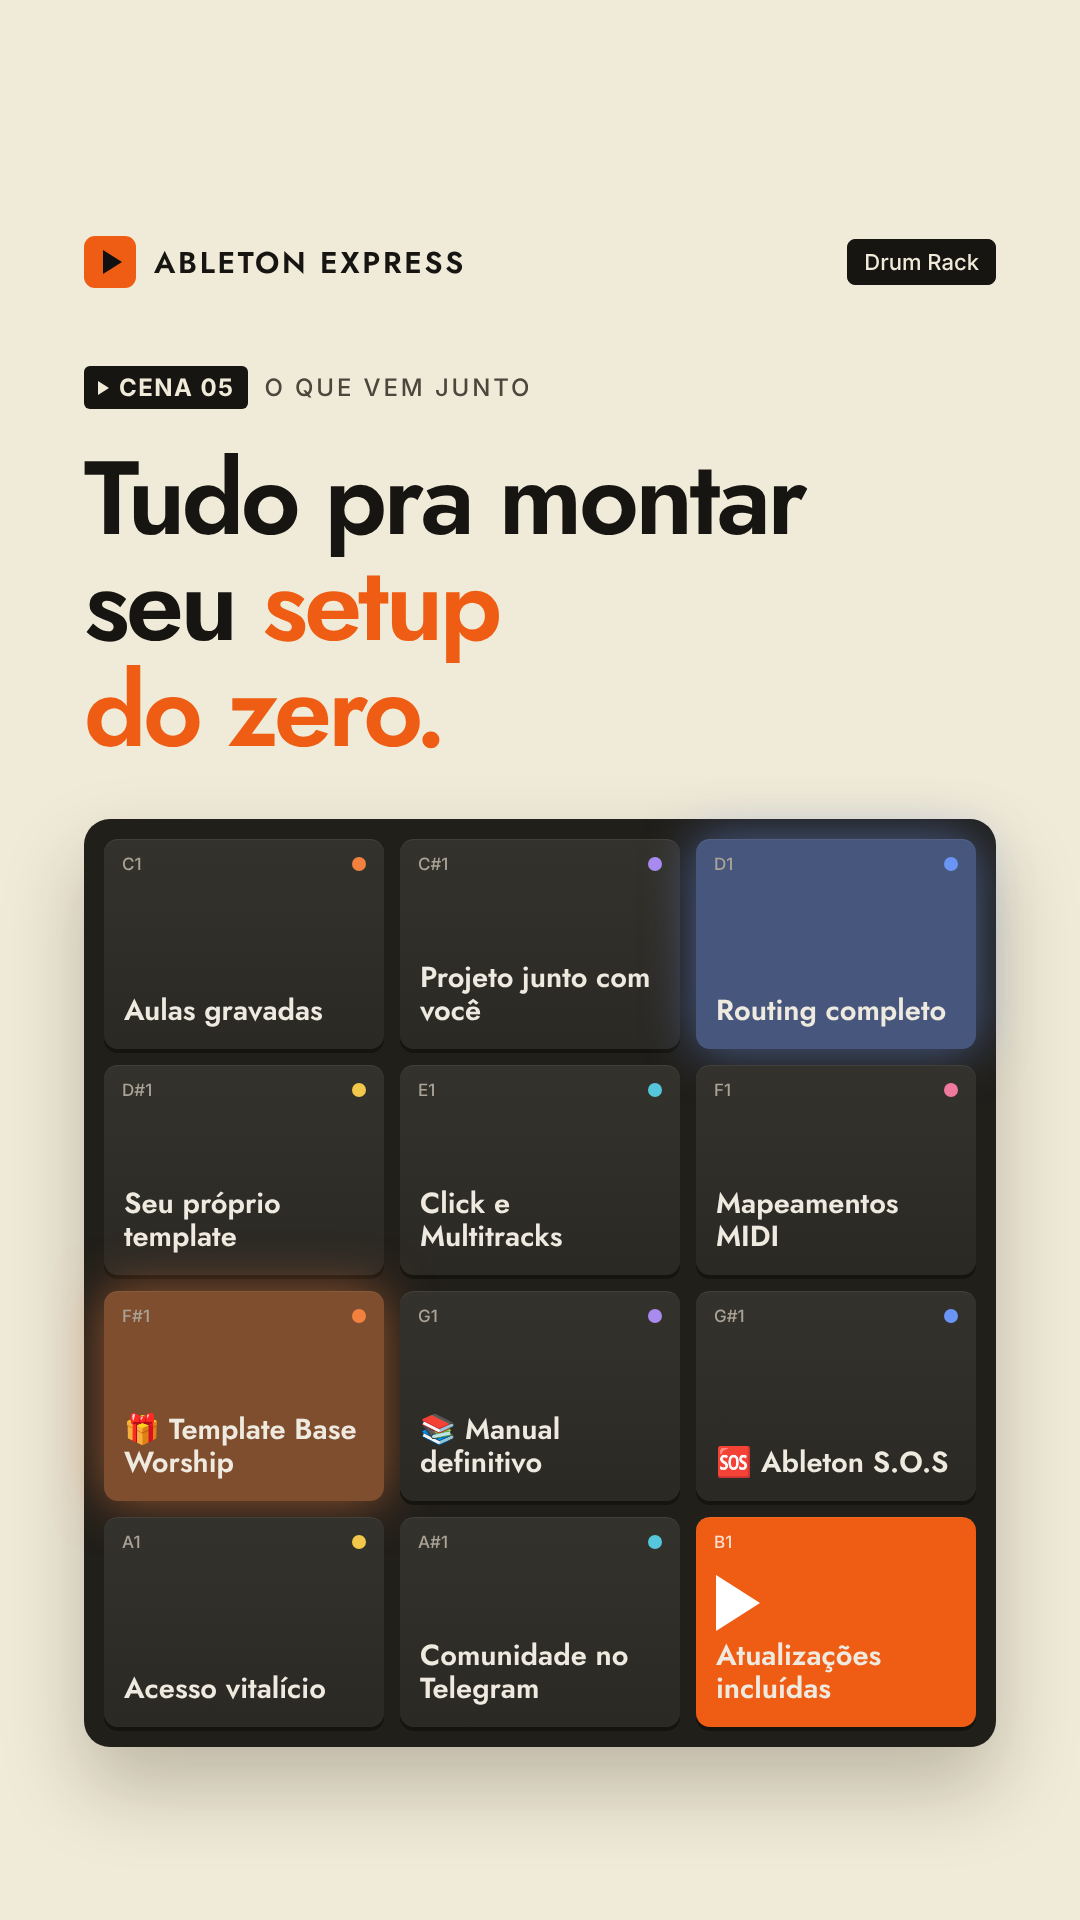
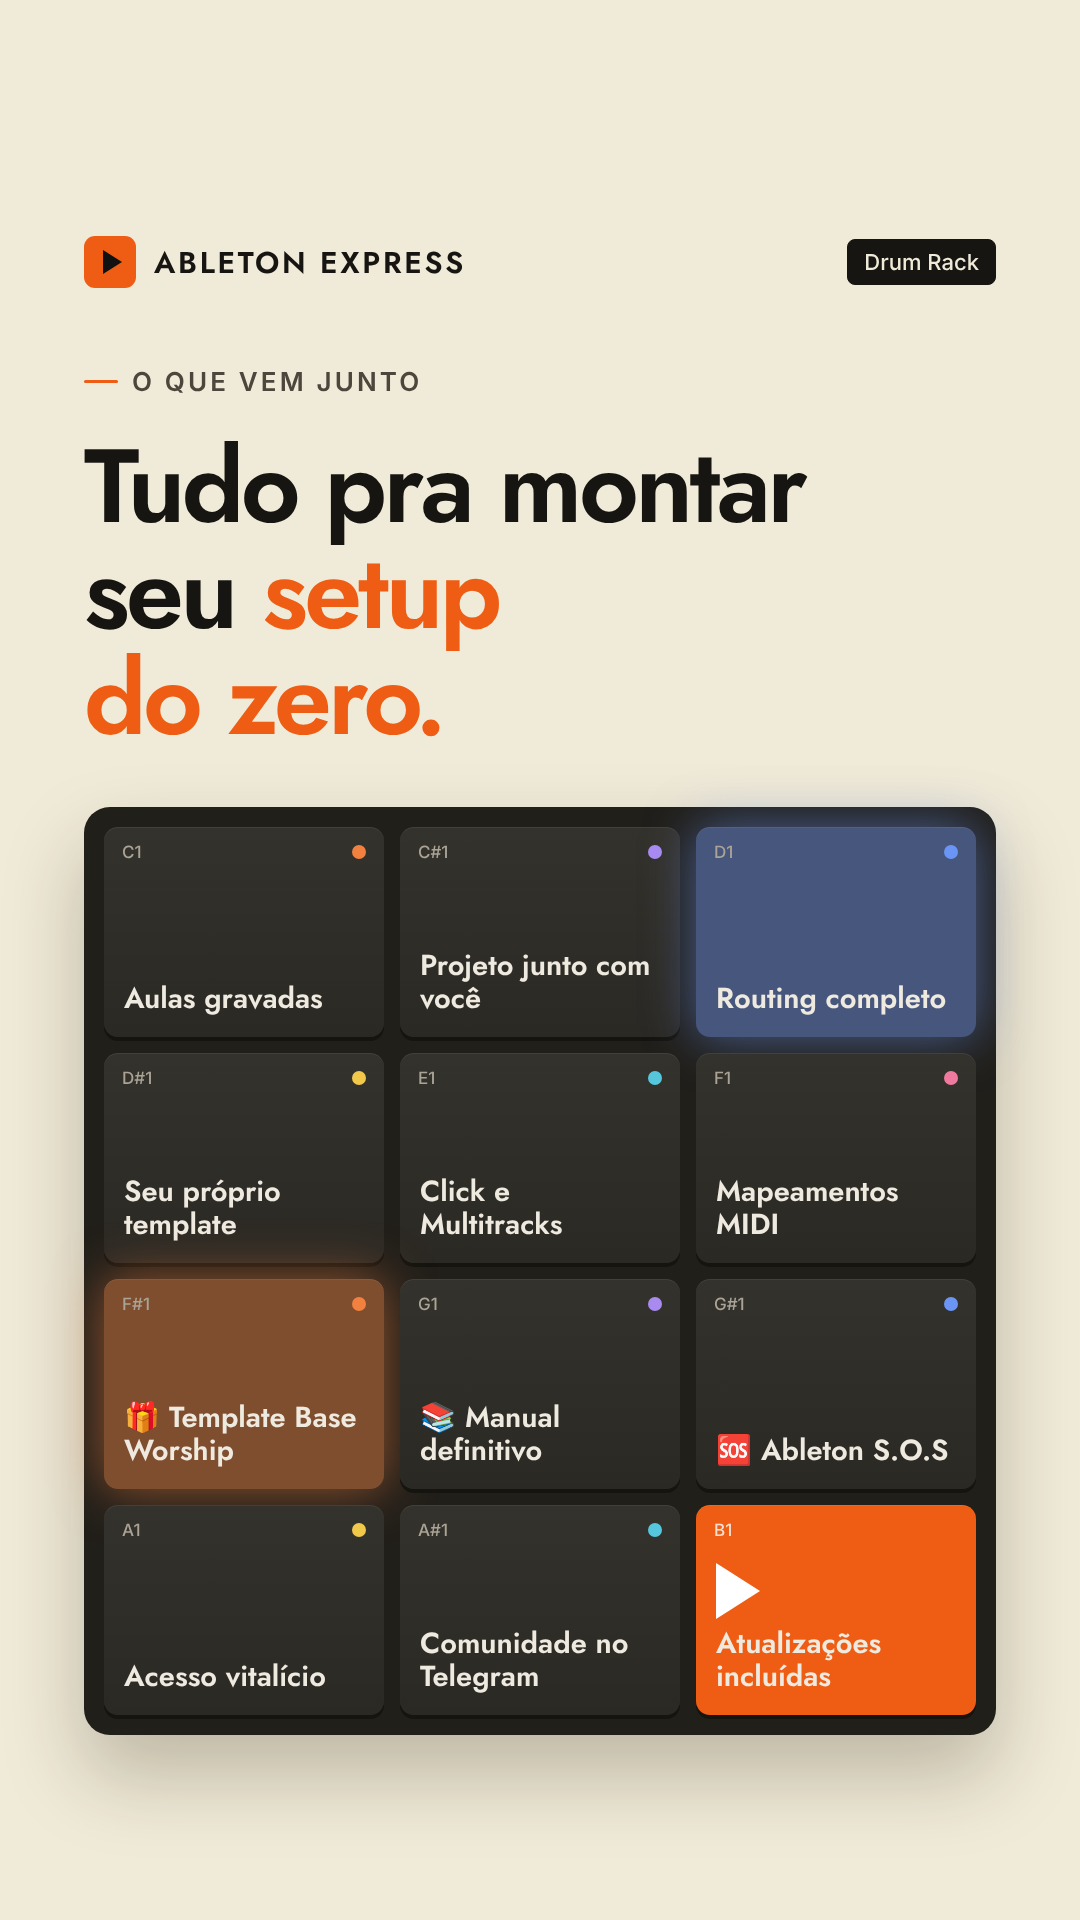
Remove masterclass de Keyscams; stories sem 'Cena 0X' e com o depoimento 1
Claude-Session: https://claude.ai/code/session_019uNxiAe6e4hj6otgcB8uLr

diff --git a/stories/src/stories.html b/stories/src/stories.html
@@ -34,7 +34,8 @@ body{background:#000;font-family:'Inter',sans-serif;color:var(--ink);-webkit-fon
 .light .tfield span{background:var(--cream-ink);border-color:var(--cream-ink);color:var(--cream);}
 .light .tfield .play{background:var(--orange);border-color:var(--orange);color:#fff;}
 
-.scene{display:inline-flex;align-items:center;gap:16px;margin-top:78px;font-size:24px;font-weight:500;letter-spacing:.12em;text-transform:uppercase;color:var(--dim);}
+.scene{display:inline-flex;align-items:center;gap:14px;margin-top:78px;font-size:26px;font-weight:600;letter-spacing:.12em;text-transform:uppercase;color:var(--muted);}
+.scene::before{content:'';width:34px;height:3px;border-radius:2px;background:var(--orange);}
 .scene b{display:inline-flex;align-items:center;gap:10px;background:var(--play);color:#111;padding:7px 14px;border-radius:6px;font-weight:700;letter-spacing:.06em;}
 .scene b::before{content:'';border-left:11px solid currentColor;border-top:7px solid transparent;border-bottom:7px solid transparent;}
 .light .scene{color:var(--cream-muted);}
@@ -213,7 +214,7 @@ h2{font-size:104px;margin-top:36px;}
   <div class="grid-bg"></div><div class="glow" style="right:-520px;top:-380px"></div>
   <div class="content">
     <div class="tbar"><span class="mark"></span><span class="brand">Ableton Express</span><div class="tfield"><span class="play">▶</span><span>72.00<small>BPM</small></span></div></div>
-    <div><span class="scene"><b>Cena 01</b> Intro</span></div>
+    <div><span class="scene">Intro</span></div>
     <h1>Você sabe<br>tocar. Agora<br>aprenda a<br><span class="hl">comandar.</span></h1>
     <div class="session">
       <div class="s-top"><span class="tab">Session</span><span>Arrangement</span><span class="file">Culto de Domingo.als · Sol maior</span></div>
@@ -237,7 +238,7 @@ h2{font-size:104px;margin-top:36px;}
   <div class="grid-bg"></div><div class="glow" style="left:-700px;bottom:-500px"></div>
   <div class="content">
     <div class="tbar"><span class="mark"></span><span class="brand">Ableton Express</span><div class="tfield"><span>4 / 4</span><span>2. 1. 1</span></div></div>
-    <div><span class="scene"><b>Cena 02</b> O problema</span></div>
+    <div><span class="scene">O problema</span></div>
     <h2>O papel do<br>tecladista mudou.<br><span class="hl">E ninguém te<br>ensinou</span> a parte<br>de trás do palco.</h2>
     <div class="ab">
       <div class="ab-col a"><p class="ab-label"><span class="k">A</span>Sem dominar o Ableton</p><ul>
@@ -256,7 +257,7 @@ h2{font-size:104px;margin-top:36px;}
 <section class="story light" id="s03">
   <div class="content">
     <div class="tbar"><span class="mark"></span><span class="brand">Ableton Express</span><div class="tfield"><span class="play">● REC</span></div></div>
-    <div><span class="scene"><b>Cena 03</b> Pra quem é</span></div>
+    <div><span class="scene">Pra quem é</span></div>
     <h2 style="font-size:124px">Este curso<br>é pra <span class="hl">você?</span></h2>
     <p class="sub">Arme o que é a sua realidade hoje.</p>
     <ul class="arm">
@@ -275,7 +276,7 @@ h2{font-size:104px;margin-top:36px;}
   <div class="grid-bg"></div>
   <div class="content">
     <div class="tbar"><span class="mark"></span><span class="brand">Ableton Express</span><div class="tfield"><span>Arrangement</span></div></div>
-    <div><span class="scene"><b>Cena 04</b> Módulos</span></div>
+    <div><span class="scene">Módulos</span></div>
     <h2>O que você<br>vai <span class="hl">aprender.</span></h2>
     <div class="ov"><div class="ov-r"><span>1</span><span>5</span><span>9</span><span>13</span><span>17</span><span>21</span><span>25</span><span>29</span></div>
       <div class="ov-s"><i style="--tc:var(--c-orange)"></i><i style="--tc:var(--c-purple)"></i><i style="--tc:var(--c-blue)"></i><i style="--tc:var(--c-yellow)"></i><i style="--tc:var(--c-cyan)"></i><i style="--tc:var(--c-pink)"></i><i class="new"></i><span class="ph"></span></div></div>
@@ -295,7 +296,7 @@ h2{font-size:104px;margin-top:36px;}
 <section class="story light" id="s05">
   <div class="content">
     <div class="tbar"><span class="mark"></span><span class="brand">Ableton Express</span><div class="tfield"><span>Drum Rack</span></div></div>
-    <div><span class="scene"><b>Cena 05</b> O que vem junto</span></div>
+    <div><span class="scene">O que vem junto</span></div>
     <h2>Tudo pra montar<br>seu <span class="hl">setup<br>do zero.</span></h2>
     <div class="pads">
       <div class="pad" style="--tc:var(--c-orange)"><span class="nt">C1</span><b>Aulas gravadas</b></div>
@@ -319,7 +320,7 @@ h2{font-size:104px;margin-top:36px;}
   <div class="grid-bg"></div><div class="glow" style="right:-600px;top:500px"></div>
   <div class="content">
     <div class="tbar"><span class="mark"></span><span class="brand">Ableton Express</span><div class="tfield"><span>Instrument Rack</span></div></div>
-    <div><span class="scene"><b>Cena 06</b> Quem vai te ensinar</span></div>
+    <div><span class="scene">Quem vai te ensinar</span></div>
     <p class="quote">“Em 2017 eu também comecei do zero. Numa época em que <span class="hl">não existia conteúdo sobre Ableton em português.”</span></p>
     <div class="rack">
       <div class="rack-bar"><span class="pwr"></span>Tiago Silva Rack<em>Macros</em></div>
@@ -344,11 +345,11 @@ h2{font-size:104px;margin-top:36px;}
   <div class="grid-bg"></div>
   <div class="content">
     <div class="tbar"><span class="mark"></span><span class="brand">Ableton Express</span><div class="tfield"><span>Alunos</span></div></div>
-    <div><span class="scene"><b>Cena 07</b> Quem já entrou</span></div>
+    <div><span class="scene">Quem já entrou</span></div>
     <h2 style="font-size:86px">Quem entrou já está<br><span class="hl">usando de verdade.</span></h2>
     <div class="proofs">
-      <div class="proof r1" style="--tc:var(--c-purple);width:640px"><div class="bar">depoimento_02<em>aluno</em></div><div class="im"><img src="../../assets/depoimentos/depoimento-02.jpg" alt=""></div></div>
-      <div class="proof r2" style="--tc:var(--c-cyan);width:640px"><div class="bar">depoimento_03<em>aluno</em></div><div class="im"><img src="../../assets/depoimentos/depoimento-03.jpg" alt=""></div></div>
+      <div class="proof r1" style="--tc:var(--c-purple);width:580px"><div class="bar">depoimento_02<em>aluno</em></div><div class="im"><img src="../../assets/depoimentos/depoimento-02.jpg" alt=""></div></div>
+      <div class="proof r2" style="--tc:var(--c-orange);width:470px"><div class="bar">depoimento_01<em>aluno</em></div><div class="im"><img src="../../assets/depoimentos/depoimento-01.jpg" alt=""></div></div>
     </div>
   </div>
 </section>
@@ -358,7 +359,7 @@ h2{font-size:104px;margin-top:36px;}
   <div class="grid-bg"></div><div class="glow" style="left:-500px;top:300px"></div>
   <div class="content">
     <div class="tbar"><span class="mark"></span><span class="brand">Ableton Express</span><div class="tfield"><span>Investimento</span></div></div>
-    <div><span class="scene"><b>Cena 08</b> Turma Fundadora</span></div>
+    <div><span class="scene">Turma Fundadora</span></div>
     <div class="dev">
       <div class="dev-bar"><span class="pwr"></span>Ableton Express · Turma Fundadora</div>
       <div class="dev-body">
@@ -368,7 +369,6 @@ h2{font-size:104px;margin-top:36px;}
         <p class="cash">ou R$<b>97</b><span>,00 à vista</span></p>
         <div class="vault"><div class="vh">🔒 Cofre do Ableton Express</div>
           <div class="vi">Masterclass: O papel do tecladista na ministração</div>
-          <div class="vi">Masterclass: Como gravar suas Keyscams</div>
         </div>
         <div class="loop"><div class="ruler"><div>D1</div><div>D2</div><div>D3</div><div>D4</div><div>D5</div><div>D6</div><div>D7</div><span class="brace"></span></div><div class="d"><b>7 dias</b>de garantia</div></div>
       </div>
@@ -382,7 +382,7 @@ h2{font-size:104px;margin-top:36px;}
   <div class="cells" id="cells"></div>
   <div class="content">
     <div class="tbar"><span class="mark"></span><span class="brand">Ableton Express</span><div class="tfield"><span class="play">▶</span><span>Cena final</span></div></div>
-    <div><span class="scene"><b>Cena 09</b> Sua vez</span></div>
+    <div><span class="scene">Sua vez</span></div>
     <p class="big">Pare de<br>depender<br>do template<br><span class="hl">dos outros.</span></p>
     <div class="checks"><span>Garantia de 7 dias</span><span>Acesso vitalício</span><span>Template de presente</span></div>
     <div class="foot"><span class="cta">Quero descobrir o Ableton <span class="tri"></span></span></div>

diff --git a/dist/ableton-express.html b/dist/ableton-express.html
@@ -1018,7 +1018,6 @@ footer .ok i{width:7px;height:7px;border-radius:50%;background:var(--play);}
             <div class="vault-head">🔒 Cofre do Ableton Express</div>
             <ul>
               <li>Masterclass: O papel do tecladista na ministração</li>
-              <li>Masterclass: Como gravar suas Keyscams</li>
             </ul>
           </div>
           <div class="pd-cta">

diff --git a/index.html b/index.html
@@ -1018,7 +1018,6 @@ footer .ok i{width:7px;height:7px;border-radius:50%;background:var(--play);}
             <div class="vault-head">🔒 Cofre do Ableton Express</div>
             <ul>
               <li>Masterclass: O papel do tecladista na ministração</li>
-              <li>Masterclass: Como gravar suas Keyscams</li>
             </ul>
           </div>
           <div class="pd-cta">
